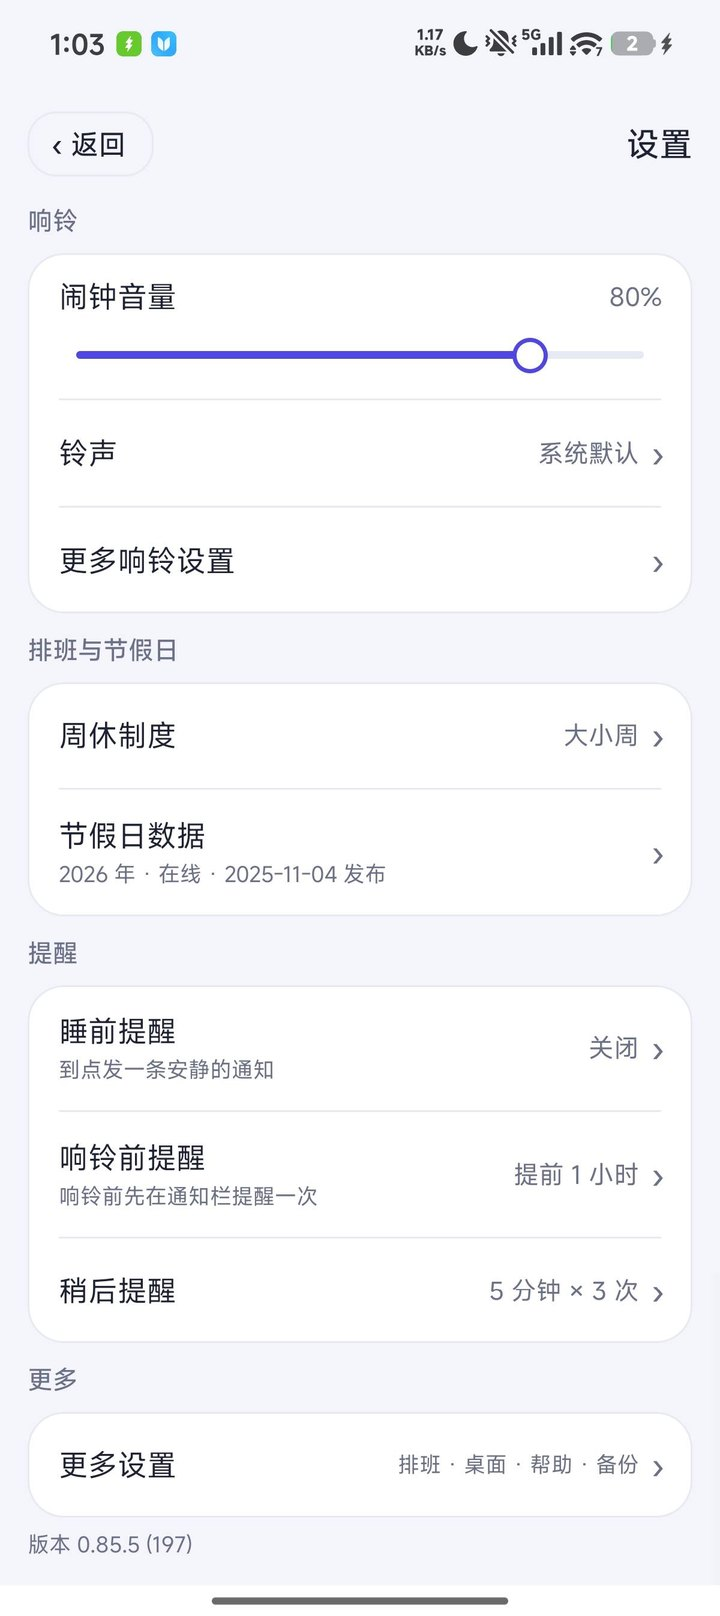
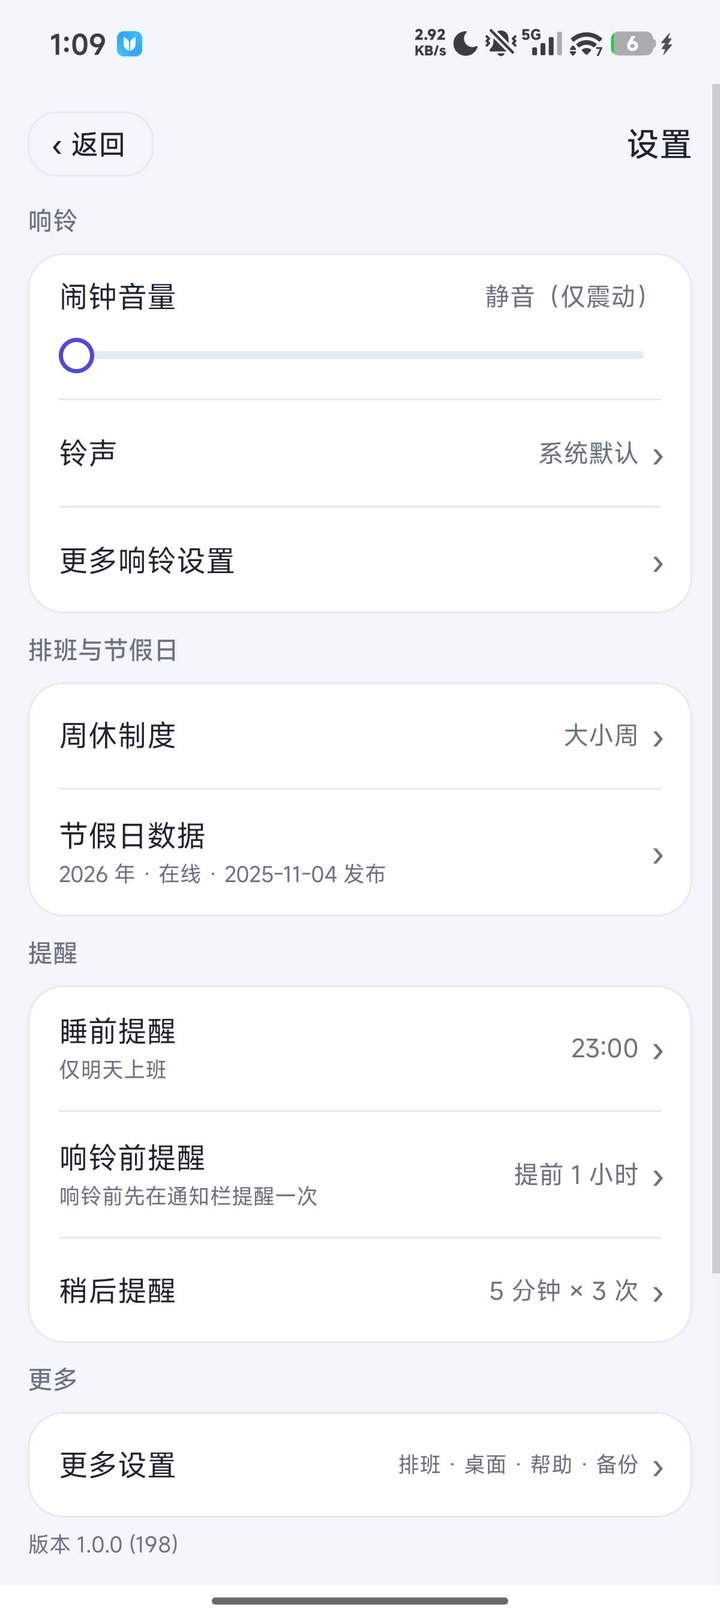
docs: 设置页截图换成 1.0.0 实拍，README 下载段对齐发布
图注里的「取自 v0.85.x」不再需要——设置页这张底部就是 1.0.0 (198)。
下载段从「首个正式版本待发布」改成指向 Releases，并写明 1.0.0 需要
先导出配置再卸载重装（签名变更，只此一次）。

diff --git a/README.md b/README.md
@@ -11,7 +11,7 @@
   <img src="docs/screenshots/3-ringing.jpg" width="235" alt="响铃页：滑动停止、5 分钟后再响">
 </p>
 
-<p align="center"><sub>首页 · 设置 · 响铃（截图取自 v0.85.x，与 1.0.0 界面相同）</sub></p>
+<p align="center"><sub>首页 · 设置 · 响铃</sub></p>
 
 ## 功能
 
@@ -26,8 +26,11 @@
 
 ## 下载
 
-- GitHub Releases（首个正式版本待发布）
+- **[Releases](../../releases/latest)** —— 最新版 `打工人闹钟-v1.0.0.apk`，Android 8.0 及以上
 - Gitee 镜像（待配置）
+
+> 从 v0.85.x 及更早版本升到 1.0.0 **不能覆盖安装**（换了签名证书），
+> 需要先在旧版「更多设置 → 导出配置」，卸载后装新版再「导入配置」。只此一次，之后都能覆盖。
 
 ## 权限说明（全部 11 条，逐条对得上用途）
 
